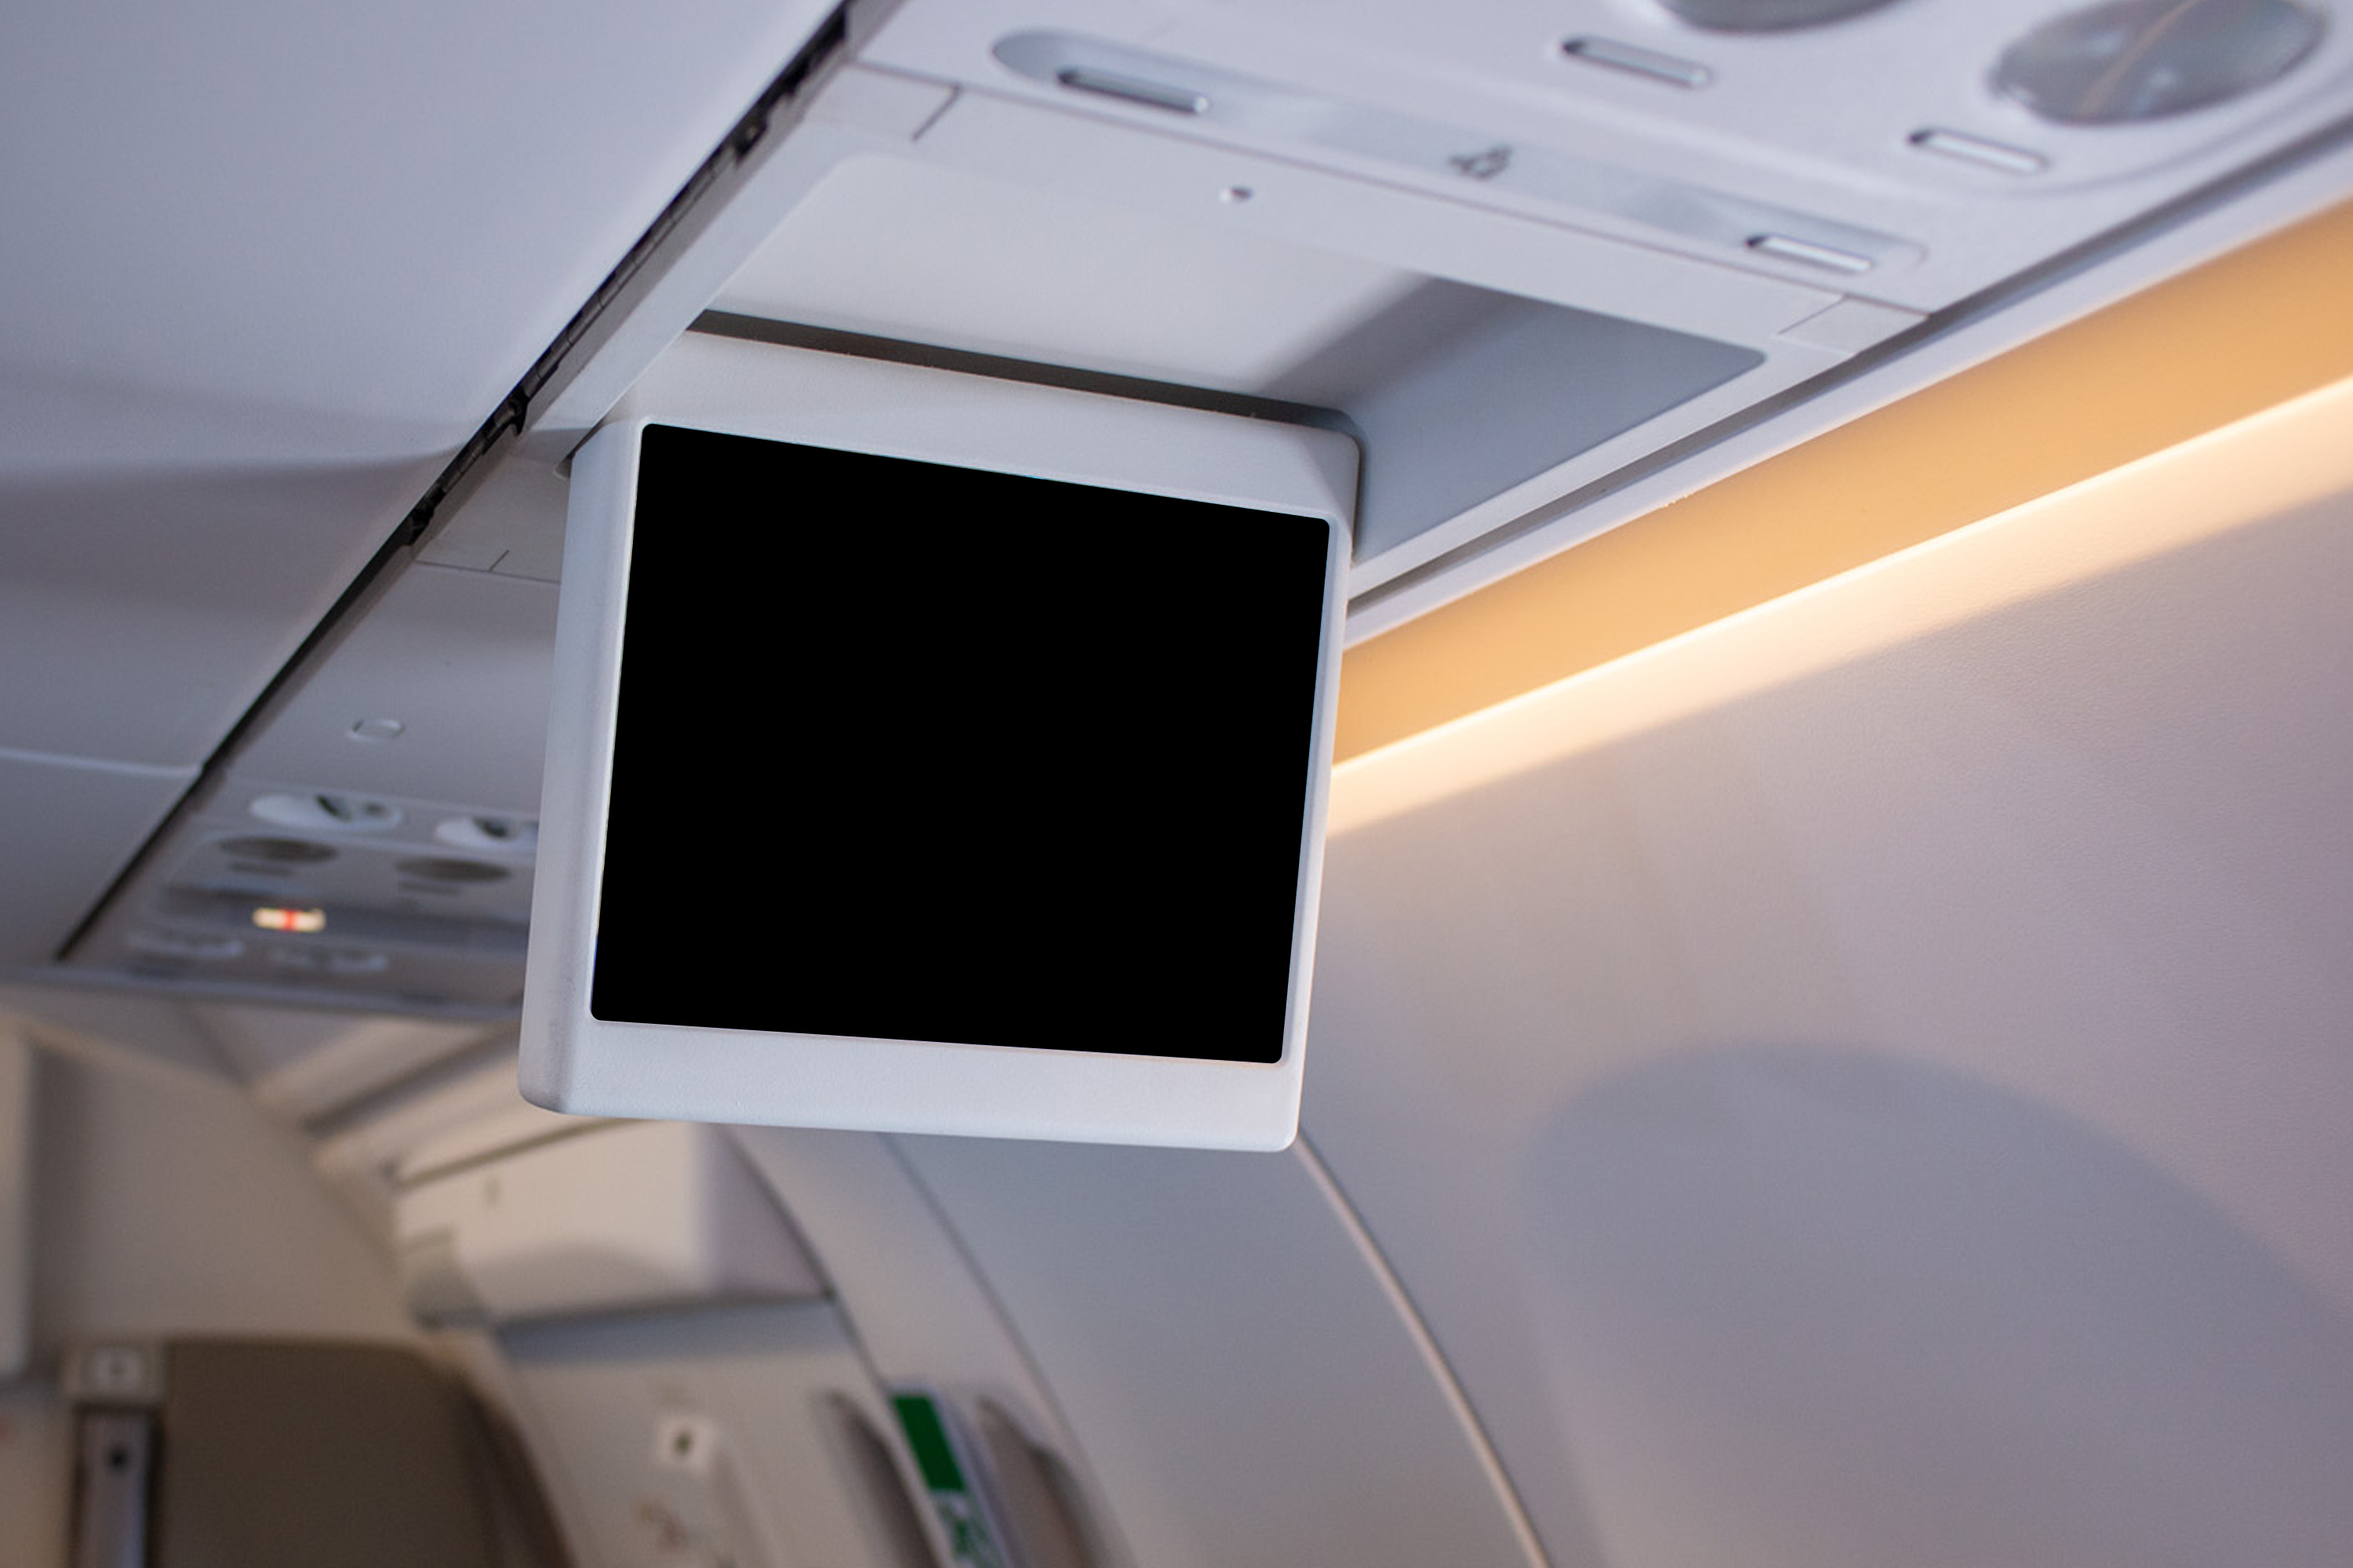
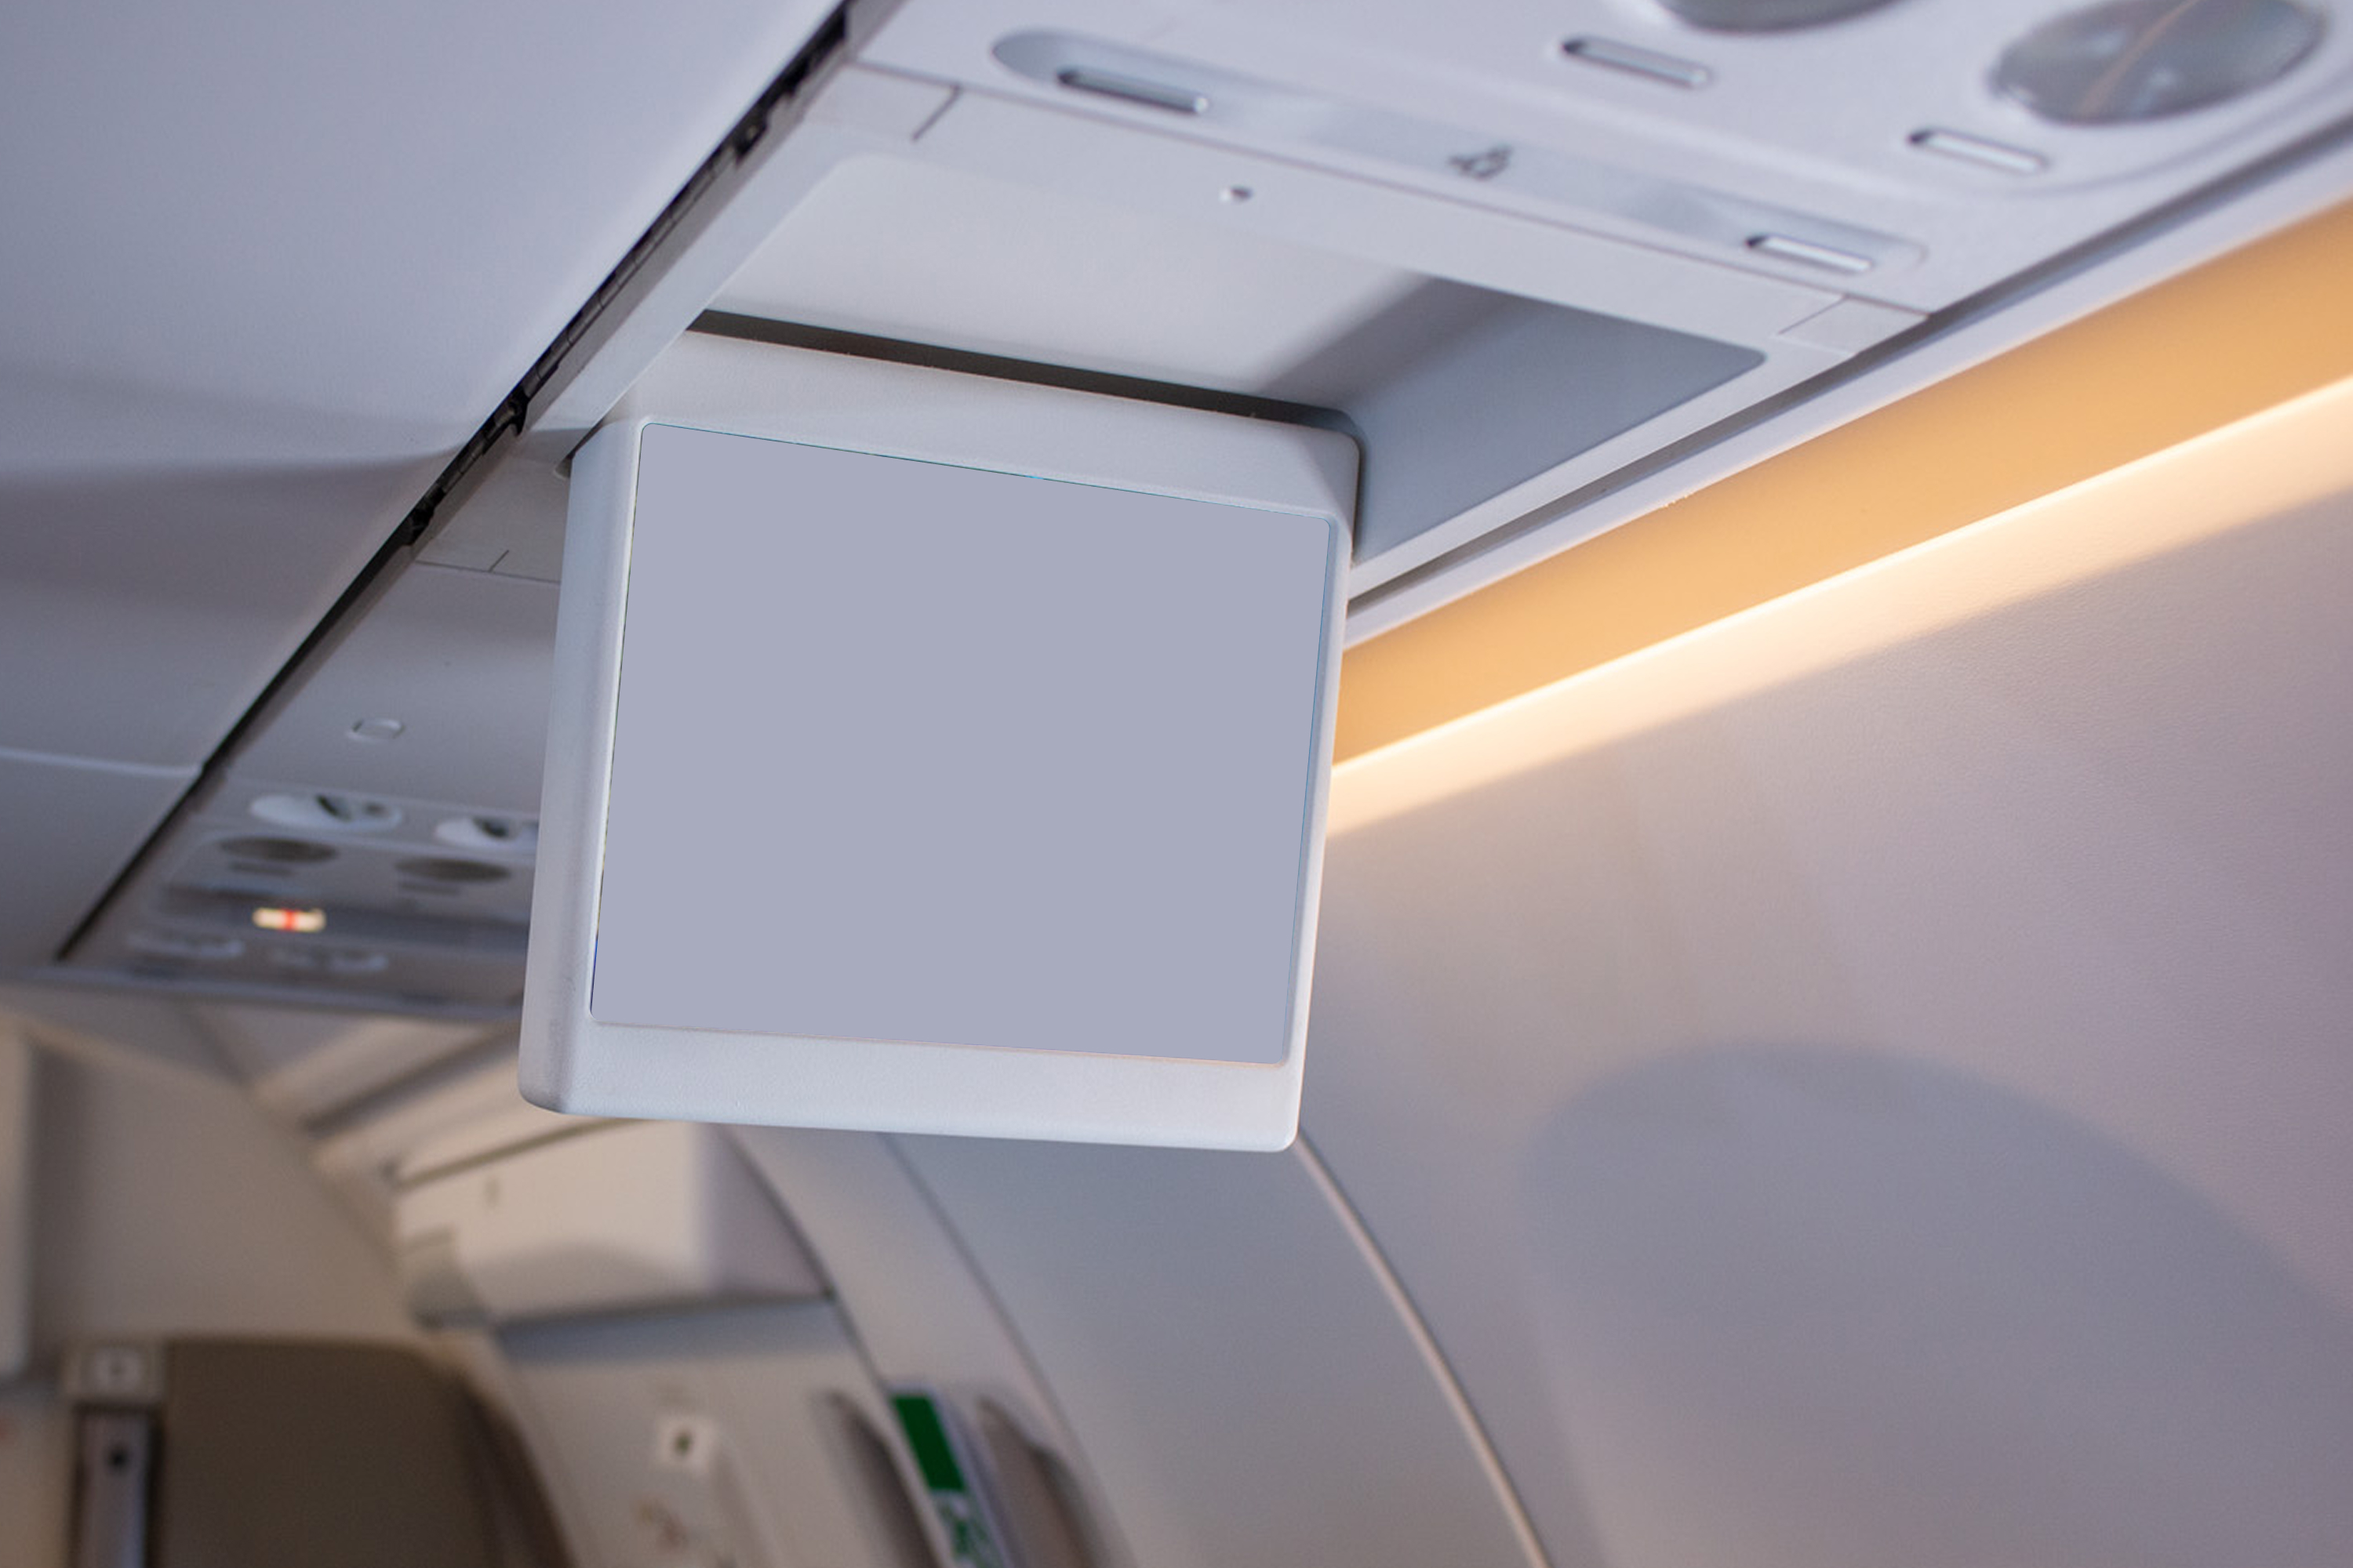
Add dark mode

Changed region(s): [[0.248, 0.248, 0.589, 0.682]]

diff --git a/src/index.css b/src/index.css
@@ -82,7 +82,7 @@ body {
 /* A screen is never as bright as paper, and catches a little of the cabin's light */
 .mockup-screen {
   overflow: hidden;
-  filter: brightness(0.9) contrast(0.95);
+  filter: brightness(0.95) contrast(0.99);
 
   &::after {
     position: absolute;
@@ -97,14 +97,13 @@ body {
   }
 }
 
-/* The large screen: warm light from the side, in focus */
-.mockup-large .mockup-screen {
-  filter: brightness(0.88) contrast(0.95) sepia(0.06);
+.mockup-screen .scene {
+  overflow: hidden;
+  border-radius: 17px 16px 16px 14px;
 }
 
-/* The small screen: out of focus like the rest of the photo */
-.mockup-small .mockup-screen {
-  filter: brightness(0.9) contrast(0.95) blur(2.5px);
+.mockup-screen .compact-scene {
+  border-radius: 42px 30px 30px 32px;
 }
 
 /* At night the screen is the light in the dark cabin: full brightness, no warm light, a glow */
@@ -115,10 +114,6 @@ body {
   &::after {
     opacity: 0.4;
   }
-}
-
-.mockup-small.night .mockup-screen {
-  filter: blur(2.5px);
 }
 
 .capture {

diff --git a/src/App.tsx b/src/App.tsx
@@ -1,4 +1,5 @@
 import { Analytics } from '@vercel/analytics/react'
+import { useEffect } from 'react'
 import { useNavigate, useSearchParams } from 'react-router'
 import { flightPath, flights, flightTitle } from './data/flights'
 import type { Flight } from './data/types'
@@ -16,6 +17,11 @@ function App({ flight }: { flight: Flight }) {
   const variant = params.get('variant') === 'compact' ? 'compact' : 'map'
   const mockup = params.has('mockup')
   const night = params.has('night')
+  // The page is dark at night too: <body> has the theme's colours
+  useEffect(() => {
+    if (night) document.body.dataset.theme = 'dark'
+    else delete document.body.dataset.theme
+  }, [night])
 
   /** Sets or clears an option in the address, keeping the others */
   const setOption = (name: string, value: string | null) =>

diff --git a/README.md b/README.md
@@ -21,8 +21,9 @@ route sits and where the city names and data go, so that nothing overlaps.
 - **Compact variant** — for small screens: no map, a straight track from origin to destination
   and large text
 - **Real world mockup** — on the demo, the live player on a screen in a cabin photo
-  (`public/mockups/`), put into perspective with a CSS `matrix3d()`; the two checkboxes beside
-  the flight picker turn on the compact variant and the mockup (`?variant=compact&mockup=1`)
+  (`public/mockups/`, by day and by night), put into perspective with a CSS `matrix3d()`. The
+  checkboxes beside the flight picker turn on the compact variant, the mockup and night mode,
+  which is the dark theme and the cabin at night (`?variant=compact&mockup=1&night=1`)
 - **Light and dark mode** — following the system setting, through a small set of theme colours
 
 ## Getting started
